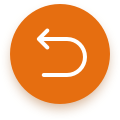
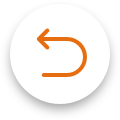
change button

diff --git a/schedule/index.html b/schedule/index.html
@@ -7,7 +7,7 @@
 <body>
     <div id="top">
         <audio id="audio" src="audio/bgm-2.mp3" controls autoplay="autoplay" loop style="display: none;"></audio>
-        <img style="position: absolute;z-index: 100;right: 65px;top: 65px;width: 70px;height: 70px;" src="images/button/voice.png" id="voice-button">
+        <img style="position: absolute;z-index: 100;right: 65px;top: 65px;width: 70px;height: 70px;" src="images/button/voice2.png" id="voice-button">
     </div>
     <div id="content">
         <iframe id="myframe" style="position: relative" src="index-1.html" width="100%" frameborder="1/0" name="iframe名称" scrolling="yes/no/auto"></iframe>
